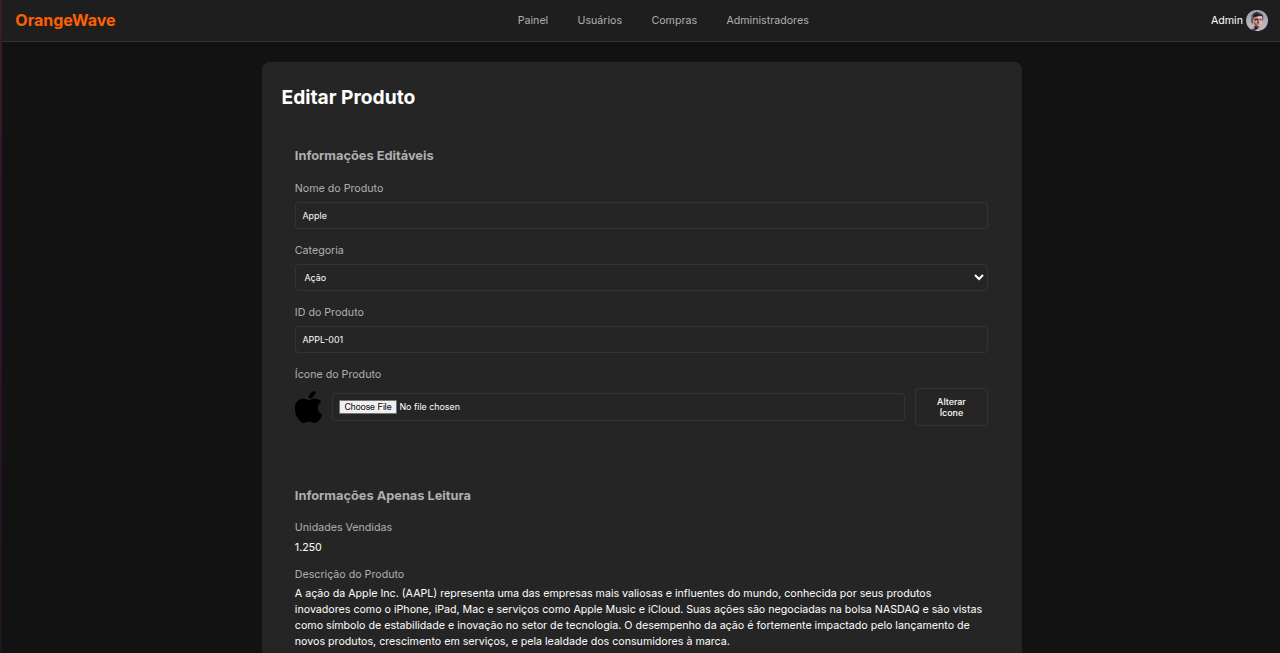
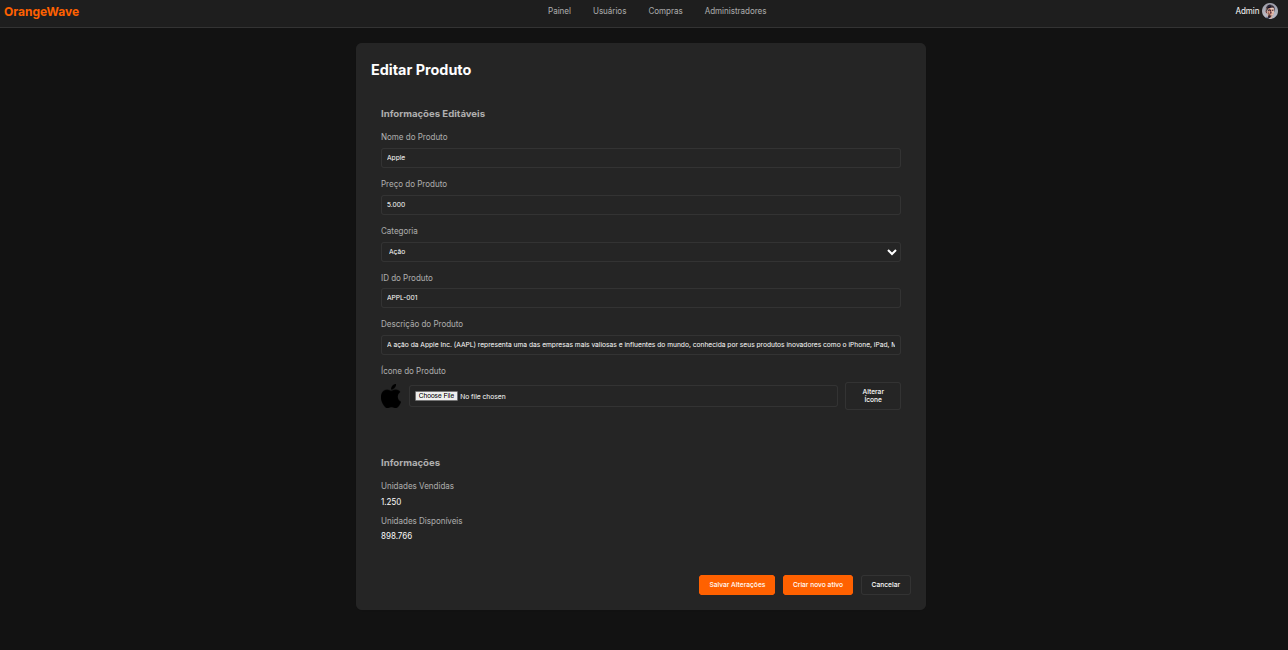
Merge dev into main (#12)
* Reworked the Readme file (#3)

* Readme reworked

* Added Architecture Diagram

* Admin pages reworked + preview images added

* Feat/add mockup imgs to readme (#6)

* Added mockup images to readme file

* Fixed typo

* Added an ER Model Sketch (#8)

* Feat/adicionar ativo (#10)

* Add-ativo

* readme

* Feat/er model (#11)

* Added an ER Model Sketch

* Cleanup

---------

diff --git a/src/pages/admin-edit-product.html b/src/pages/admin-edit-product.html
@@ -9,7 +9,7 @@
 </head>
 <body>
   <header>
-    <a href="index.html" class="logo">OrangeWave</a>
+    <a href="admin-dashboard.html" class="logo">OrangeWave</a>
     <nav class="nav-links">
       <a href="admin-dashboard.html">Painel</a>
       <a href="admin-users.html">Usuários</a>
@@ -36,13 +36,27 @@
             <label for="productName">Nome do Produto</label>
             <input type="text" id="productName" value="Apple" required>
           </div>
+<<<<<<< HEAD
+
+          <div class="form-group">
+            <label for="productPrice">Preço do Produto</label>
+            <input type="number" id="productId" value="5.000" required>
+          </div>
+=======
+>>>>>>> ade6fb14057023921f4d3e45d56a81d8c502899b
           
           <div class="form-group">
             <label for="category">Categoria</label>
             <select id="category" required>
+<<<<<<< HEAD
+              <option value="crypto" style="background-color: black">Ação</option>
+              <option value="stocks" style="background-color: black">Ações</option>
+              <option value="forex" style="background-color: black">Forex</option>
+=======
               <option value="crypto">Ação</option>
               <option value="stocks">Ações</option>
               <option value="forex">Forex</option>
+>>>>>>> ade6fb14057023921f4d3e45d56a81d8c502899b
             </select>
           </div>
           
@@ -50,6 +64,14 @@
             <label for="productId">ID do Produto</label>
             <input type="text" id="productId" value="APPL-001" required>
           </div>
+<<<<<<< HEAD
+
+          <div class="form-group">         
+            <label for="productId">Descrição do Produto</label>
+            <input type="text" id="productId" value="A ação da Apple Inc. (AAPL) representa uma das empresas mais valiosas e influentes do mundo, conhecida por seus produtos inovadores como o iPhone, iPad, Mac e serviços como Apple Music e iCloud. Suas ações são negociadas na bolsa NASDAQ e são vistas como símbolo de estabilidade e inovação no setor de tecnologia. O desempenho da ação é fortemente impactado pelo lançamento de novos produtos, crescimento em serviços, e pela lealdade dos consumidores à marca" required>
+          </div>
+=======
+>>>>>>> ade6fb14057023921f4d3e45d56a81d8c502899b
           
           <div class="form-group">
             <label for="icon">Ícone do Produto</label>
@@ -62,7 +84,11 @@
         </div>
 
         <div class="form-section readonly">
+<<<<<<< HEAD
+          <h2>Informações</h2>
+=======
           <h2>Informações Apenas Leitura</h2>
+>>>>>>> ade6fb14057023921f4d3e45d56a81d8c502899b
           
           <div class="info-group">
             <label>Unidades Vendidas</label>
@@ -70,11 +96,14 @@
           </div>
           
           <div class="info-group">
+<<<<<<< HEAD
+=======
             <label>Descrição do Produto</label>
             <p>A ação da Apple Inc. (AAPL) representa uma das empresas mais valiosas e influentes do mundo, conhecida por seus produtos inovadores como o iPhone, iPad, Mac e serviços como Apple Music e iCloud. Suas ações são negociadas na bolsa NASDAQ e são vistas como símbolo de estabilidade e inovação no setor de tecnologia. O desempenho da ação é fortemente impactado pelo lançamento de novos produtos, crescimento em serviços, e pela lealdade dos consumidores à marca.</p>
           </div>
           
           <div class="info-group">
+>>>>>>> ade6fb14057023921f4d3e45d56a81d8c502899b
             <label>Unidades Disponíveis</label>
             <p>898.766</p>
           </div>
@@ -82,7 +111,12 @@
 
         <div class="form-actions">
           <button type="submit" class="btn btn-primary">Salvar Alterações</button>
+<<<<<<< HEAD
+          <button type="submit" class="btn btn-primary">Criar novo ativo</button>
+          <button type="button" class="btn btn-secondary" onclick="window.location.href='admin-dashboard.html'">Cancelar</button>
+=======
           <button type="button" class="btn btn-secondary">Cancelar</button>
+>>>>>>> ade6fb14057023921f4d3e45d56a81d8c502899b
         </div>
       </form>
     </div>

diff --git a/src/pages/index.html b/src/pages/index.html
@@ -20,7 +20,7 @@
       <a href="wallet.html">Carteira</a>
     </nav>
     <div class="user-section">
-      <div class="cart-icon">
+      <div class="cart-icon" onclick="window.location.href='cart.html'">
         <svg width="24" height="24" viewBox="0 0 24 24" fill="none" stroke="currentColor" stroke-width="2" stroke-linecap="round" stroke-linejoin="round">
           <circle cx="9" cy="21" r="1"></circle>
           <circle cx="20" cy="21" r="1"></circle>
@@ -84,25 +84,25 @@
           <p class="section-subtitle">Gerencie seus investimentos</p>
           
           <div class="quick-actions">
-            <div class="quick-action-item">
+            <div class="quick-action-item" onclick="window.location.href='market.html'">
               <span>Explorar Mercados</span>
               <svg width="16" height="16" viewBox="0 0 24 24" fill="none" stroke="currentColor" stroke-width="2" stroke-linecap="round" stroke-linejoin="round">
                 <polyline points="9 18 15 12 9 6"></polyline>
               </svg>
             </div>
-            <div class="quick-action-item">
+            <div class="quick-action-item" onclick="window.location.href='wallet.html'">
               <span>Gerenciar Carteira</span>
               <svg width="16" height="16" viewBox="0 0 24 24" fill="none" stroke="currentColor" stroke-width="2" stroke-linecap="round" stroke-linejoin="round">
                 <polyline points="9 18 15 12 9 6"></polyline>
               </svg>
             </div>
-            <div class="quick-action-item">
+            <div class="quick-action-item" onclick="window.location.href='orders.html'">
               <span>Ver Ordens</span>
               <svg width="16" height="16" viewBox="0 0 24 24" fill="none" stroke="currentColor" stroke-width="2" stroke-linecap="round" stroke-linejoin="round">
                 <polyline points="9 18 15 12 9 6"></polyline>
               </svg>
             </div>
-            <div class="quick-action-item">
+            <div class="quick-action-item" onclick="window.location.href='simulation.html'">
               <span>Simulação de Trading</span>
               <svg width="16" height="16" viewBox="0 0 24 24" fill="none" stroke="currentColor" stroke-width="2" stroke-linecap="round" stroke-linejoin="round">
                 <polyline points="9 18 15 12 9 6"></polyline>

diff --git a/src/pages/market.html b/src/pages/market.html
@@ -20,7 +20,7 @@
       <a href="wallet.html">Carteira</a>
     </nav>
     <div class="user-section">
-      <div class="cart-icon">
+      <div class="cart-icon" onclick="window.location.href='cart.html'">
         <svg width="24" height="24" viewBox="0 0 24 24" fill="none" stroke="currentColor" stroke-width="2" stroke-linecap="round" stroke-linejoin="round">
           <circle cx="9" cy="21" r="1"></circle>
           <circle cx="20" cy="21" r="1"></circle>
@@ -90,7 +90,7 @@
               <div class="asset-name">
                 <img src="https://companieslogo.com/img/orig/MSFT-a203b22d.png" alt="Microsoft" class="asset-icon">
                 <div>
-                  <div>Microsoft Corporation</div>
+                  <div onclick="window.location.href='stock-datail.html'">Microsoft Corporation</div>
                   <div class="ticker">MSFT</div>
                 </div>
               </div>

diff --git a/src/pages/simulation.html b/src/pages/simulation.html
@@ -20,7 +20,7 @@
       <a href="wallet.html">Carteira</a>
     </nav>
     <div class="user-section">
-      <div class="cart-icon">
+      <div class="cart-icon" onclick="window.location.href='cart.html'">
         <svg width="24" height="24" viewBox="0 0 24 24" fill="none" stroke="currentColor" stroke-width="2" stroke-linecap="round" stroke-linejoin="round">
           <circle cx="9" cy="21" r="1"></circle>
           <circle cx="20" cy="21" r="1"></circle>
@@ -79,7 +79,7 @@
         </div>
       </div>
     </div>
-
+    
     <div class="tabs">
       <button class="tab active">Mercado</button>
       <button class="tab">Portfólio</button>

diff --git a/src/pages/admin-dashboard.html b/src/pages/admin-dashboard.html
@@ -9,7 +9,7 @@
 </head>
 <body>
   <header>
-    <a href="index.html" class="logo">OrangeWave</a>
+    <a href="admin-dashboard.html" class="logo">OrangeWave</a>
     <nav class="nav-links">
       <a href="admin-dashboard.html" class="active-orange">Painel</a>
       <a href="admin-users.html">Usuários</a>
@@ -61,7 +61,7 @@
 
     <div class="section-header">
       <h2>Gerenciar Ativos</h2>
-      <button class="btn btn-primary">Adicionar Ativo</button>
+      <a class="btn btn-primary" href="admin-edit-product.html">Adcionar Ativo</a>
     </div>
 
     <div class="filter-row">

diff --git a/src/pages/wallet.html b/src/pages/wallet.html
@@ -20,7 +20,7 @@
       <a href="wallet.html" class="active-orange">Carteira</a>
     </nav>
     <div class="user-section">
-      <div class="cart-icon">
+      <div class="cart-icon" onclick="window.location.href='cart.html'">
         <svg width="24" height="24" viewBox="0 0 24 24" fill="none" stroke="currentColor" stroke-width="2" stroke-linecap="round" stroke-linejoin="round">
           <circle cx="9" cy="21" r="1"></circle>
           <circle cx="20" cy="21" r="1"></circle>

diff --git a/src/pages/news.html b/src/pages/news.html
@@ -20,7 +20,7 @@
       <a href="wallet.html">Carteira</a>
     </nav>
     <div class="user-section">
-      <div class="cart-icon">
+      <div class="cart-icon" onclick="window.location.href='cart.html'">
         <svg width="24" height="24" viewBox="0 0 24 24" fill="none" stroke="currentColor" stroke-width="2" stroke-linecap="round" stroke-linejoin="round">
           <circle cx="9" cy="21" r="1"></circle>
           <circle cx="20" cy="21" r="1"></circle>

diff --git a/src/pages/orders.html b/src/pages/orders.html
@@ -20,7 +20,7 @@
       <a href="wallet.html">Carteira</a>
     </nav>
     <div class="user-section">
-      <div class="cart-icon">
+      <div class="cart-icon" onclick="window.location.href='cart.html'">
         <svg width="24" height="24" viewBox="0 0 24 24" fill="none" stroke="currentColor" stroke-width="2" stroke-linecap="round" stroke-linejoin="round">
           <circle cx="9" cy="21" r="1"></circle>
           <circle cx="20" cy="21" r="1"></circle>

diff --git a/src/pages/stock-datail.html b/src/pages/stock-datail.html
@@ -20,7 +20,7 @@
       <a href="#">Carteira</a>
     </nav>
     <div class="user-section">
-      <div class="cart-icon">
+      <div class="cart-icon" onclick="window.location.href='cart.html'">
         <svg width="24" height="24" viewBox="0 0 24 24" fill="none" stroke="currentColor" stroke-width="2" stroke-linecap="round" stroke-linejoin="round">
           <circle cx="9" cy="21" r="1"></circle>
           <circle cx="20" cy="21" r="1"></circle>

diff --git a/src/pages/admin-users.html b/src/pages/admin-users.html
@@ -9,7 +9,7 @@
 </head>
 <body>
   <header>
-    <a href="index.html" class="logo">OrangeWave</a>
+    <a href="admin-dashboard.html" class="logo">OrangeWave</a>
     <nav class="nav-links">
       <a href="admin-dashboard.html">Painel</a>
       <a href="admin-users.html" class="active">Usuários</a>

diff --git a/src/pages/admin-admins.html b/src/pages/admin-admins.html
@@ -9,7 +9,7 @@
 </head>
 <body>
   <header>
-    <a href="index.html" class="logo">OrangeWave</a>
+    <a href="admin-dashboard.html" class="logo">OrangeWave</a>
     <nav class="nav-links">
       <a href="admin-dashboard.html">Painel</a>
       <a href="admin-users.html">Usuários</a>

diff --git a/src/pages/admin-purchases.html b/src/pages/admin-purchases.html
@@ -9,7 +9,7 @@
 </head>
 <body>
   <header>
-    <a href="index.html" class="logo">OrangeWave</a>
+    <a href="admin-dashboard.html" class="logo">OrangeWave</a>
     <nav class="nav-links">
       <a href="admin-dashboard.html">Painel</a>
       <a href="admin-users.html">Usuários</a>
